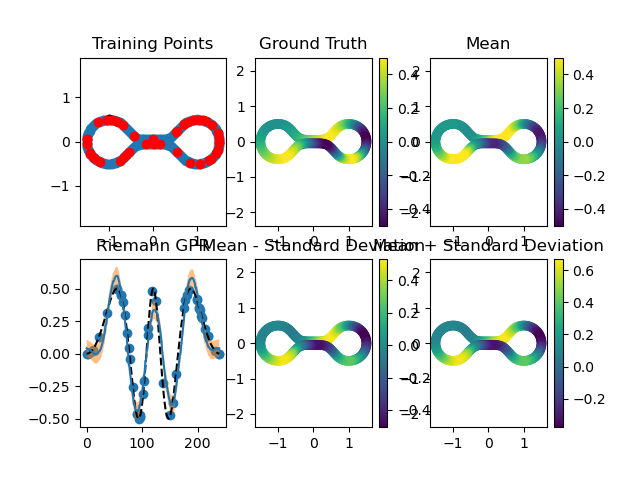
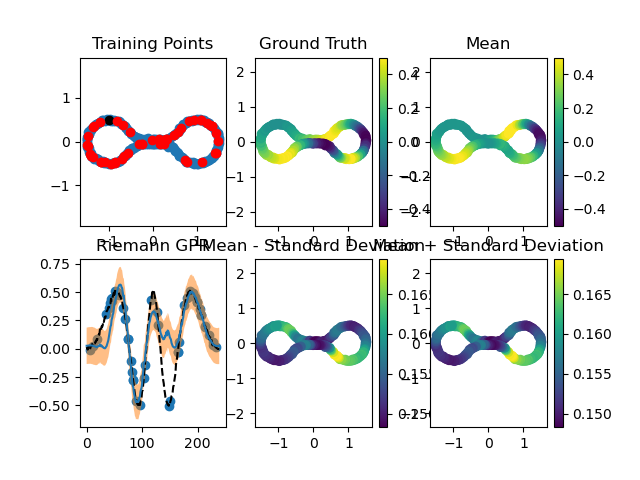
Fixed minor stuff.

diff --git a/src/precision_matrices/matern_precision.py b/src/precision_matrices/matern_precision.py
@@ -7,6 +7,7 @@ from gpytorch.constraints import Positive
 from src.operators.sparse_operator import SparseOperator
 from src.operators.module_operator import ModuleOperator
 
+
 class MaternPrecision(gpytorch.Module):
 
     def __init__(self, X, k, nu=5, taylor=3, **kwargs):
@@ -38,7 +39,7 @@ class MaternPrecision(gpytorch.Module):
 
         # Heat kernel length
         self.register_parameter(
-            name='raw_eps', parameter=torch.nn.Parameter(torch.tensor(-1.), requires_grad=True)
+            name='raw_eps', parameter=torch.nn.Parameter(torch.tensor(-2.), requires_grad=True)
         )
         self.register_constraint("raw_eps", Positive())
 
@@ -134,58 +135,66 @@ class MaternPrecision(gpytorch.Module):
         return ModuleOperator(self.X_, self)
 
     def precision_matrix(self, x, labels):
-        val = self.val_.div(-self.eps).exp()
+        val = self.val_.div(-self.eps**2).exp()
         deg = val.sum(dim=1)
-        val = val.div(deg.sqrt().unsqueeze(1)).div(deg.sqrt()[self.idx_[:, 1:]])
-        val = torch.cat((torch.ones(self.X_.shape[0], 1) +  2*self.nu_/self.length**2, -val), dim=1)
+        val = val.div(deg.sqrt().unsqueeze(1)).div(
+            deg.sqrt()[self.idx_[:, 1:]])
+        val = torch.cat(
+            (torch.ones(self.X_.shape[0], 1) + 2*self.nu_/self.length**2, -val), dim=1)
 
-        matmul = lambda x : torch.sum(val * x[self.idx_].permute(2, 0, 1), dim=2).t()
+        def matmul(x): return torch.sum(
+            val * x[self.idx_].permute(2, 0, 1), dim=2).t()
 
         if labels is not None:
             labaled = torch.zeros(self.X_.shape[0], x.shape[1])
-            labaled[labels,:] = 1.0
+            labaled[labels, :] = 1.0
 
             not_labaled = torch.ones(self.X_.shape[0], x.shape[1])
-            not_labaled[labels,:] = 0.0
+            not_labaled[labels, :] = 0.0
 
             y = torch.zeros(self.X_.shape[0], x.shape[1])
             y[labels, :] = x
 
-            for iter in range(self.nu_):
+            for _ in range(self.nu_):
                 y = matmul(y)
 
             Q_xx = y[labels, :]
-            opt = SparseOperator(val, self.idx_,self.size_)
+            opt = SparseOperator(val, self.idx_, self.size_)
             # y *= not_labaled
-            y[labels,:] = 0.0
+            y[labels, :] = 0.0
 
-            for iter in range(self.nu_):
+            for _ in range(self.nu_):
                 y = opt.solve(y)
 
             z = y*not_labaled
 
-            for iter in range(1, self.nu_):
+            for _ in range(1, self.nu_):
                 z = matmul(z)
 
-            return (Q_xx + z[labels,:])/self.signal**2
+            return (Q_xx + z[labels, :])/self.signal**2
         else:
             y = x
 
             for iter in range(0, self.nu_):
                 y = torch.sum(
                     val * y[self.idx_].permute(2, 0, 1), dim=2).t()
-                
+
             return y
 
     def forward(self, x, labels=None, **params):
         return self.precision_matrix(x - self.noise.pow(2)*self.precision_matrix(x + self.noise.pow(4)*self.precision_matrix(x, labels), labels), labels)
 
     def laplacian(self):
-        val = self.val_.div(-self.eps).exp()
+        val = self.val_.div(-self.eps**2).exp()
         deg = val.sum(dim=1)
-        val = val.div(deg.unsqueeze(1)).div(deg[self.idx_[:, 1:]])
-        val = torch.cat((torch.ones(
-            self.X_.shape[0], 1), -val.div(val.sum(dim=1).unsqueeze(1))), dim=1)*4/self.eps
+        val = val.div(deg.sqrt().unsqueeze(1)).div(
+            deg.sqrt()[self.idx_[:, 1:]])
+        val = torch.cat((torch.ones(self.X_.shape[0], 1), -val), dim=1)
+        # val = self.val_.div(-self.eps**2).exp()
+        # deg = val.sum(dim=1)
+        # val = val.div(deg.unsqueeze(1)).div(deg[self.idx_[:, 1:]])
+        # val = torch.cat((torch.ones(
+        #     self.X_.shape[0], 1), -val.div(val.sum(dim=1).unsqueeze(1))), dim=1)*4/self.eps
 
         rows = torch.arange(self.idx_.shape[0]).repeat_interleave(
             self.idx_.shape[1]).unsqueeze(0)

diff --git a/train.py b/train.py
@@ -23,7 +23,7 @@ from scipy.sparse.linalg import eigs
 file = 'rsc/dumbbell.msh'  # 'rsc/dragon10k.stl'
 
 # Define scenario
-supervised, function_noise, manifold_noise = True, False, False
+supervised, function_noise, manifold_noise = True, True, True
 
 # Set cuda
 use_cuda = False  # torch.cuda.is_available()
@@ -85,16 +85,16 @@ X_test = X_sampled[idx_test, :]
 Y_test = Y_sampled[idx_test]
 
 # Precision matrix model
-k = 4
+k = 50
 nu = 2
 model = MaternPrecision(X_sampled, k, nu)
 model.train()  # Basically it clears the cache
 
 # Training
-training_iter = 5000
+training_iter = 500
 optimizer = torch.optim.Adam(model.parameters(), lr=1e-1)
 
-with settings.fast_computations(log_prob=False) and settings.max_cholesky_size(200) and torch.autograd.set_detect_anomaly(True):
+with settings.fast_computations(log_prob=False) and settings.max_cholesky_size(300) and torch.autograd.set_detect_anomaly(True):
     for i in range(training_iter):
         # Zero gradients from previous iteration
         optimizer.zero_grad()
@@ -203,7 +203,7 @@ with torch.no_grad():
         # fig = plt.figure()
         ax = fig.add_subplot(235)
         # , vmin=-0.5, vmax=0.5)
-        plot = ax.scatter(X_sampled[:, 0], X_sampled[:, 1], c=mean-std)
+        plot = ax.scatter(X_sampled[:, 0], X_sampled[:, 1], c=std)
         fig.colorbar(plot)
         ax.axis('equal')
         ax.set_title('Mean - Standard Deviation')
@@ -211,7 +211,7 @@ with torch.no_grad():
         # fig = plt.figure()
         ax = fig.add_subplot(236)
         # , vmin=-0.5, vmax=0.5)
-        plot = ax.scatter(X_sampled[:, 0], X_sampled[:, 1], c=mean+std)
+        plot = ax.scatter(X_sampled[:, 0], X_sampled[:, 1], c=std)
         fig.colorbar(plot)
         ax.axis('equal')
         ax.set_title('Mean + Standard Deviation')

diff --git a/test.py b/test.py
@@ -60,13 +60,13 @@ loss_log = np.zeros((manifold_noise.shape[0], function_noise.shape[0]))
 
 for count_m, noise_m in enumerate(manifold_noise):
     # Add noise to manifold
-    X_noisy = X_sampled + 0.01 * \
+    X_noisy = X_sampled + noise_m * \
         torch.randn(X_sampled.shape[0], n)
     for count_f, noise_f in enumerate(function_noise):
         print(
             f"Iteration: {counter}/{manifold_noise.shape[0]*function_noise.shape[0]}, Manifold noise: {noise_m:0.3f}, Function noise: {noise_f:0.3f}")
         # Add noise to function
-        Y_noisy = Y_sampled + 0.01 * \
+        Y_noisy = Y_sampled + noise_f * \
             torch.randn(m, 1)
 
         # Training points
